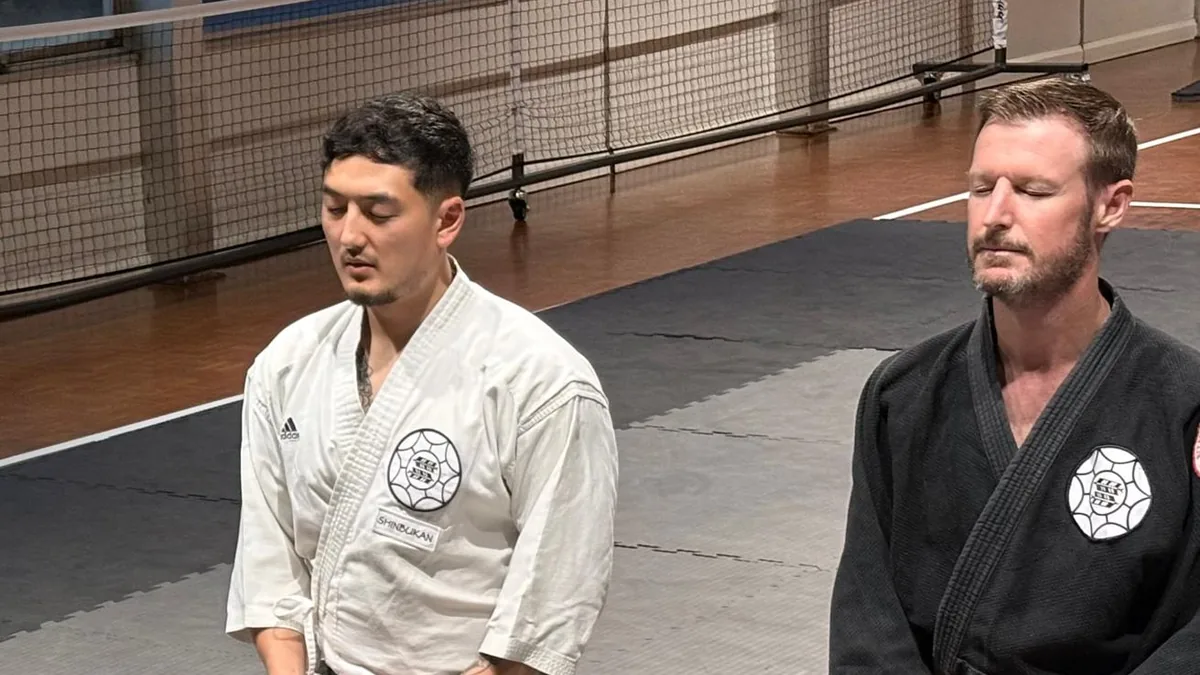
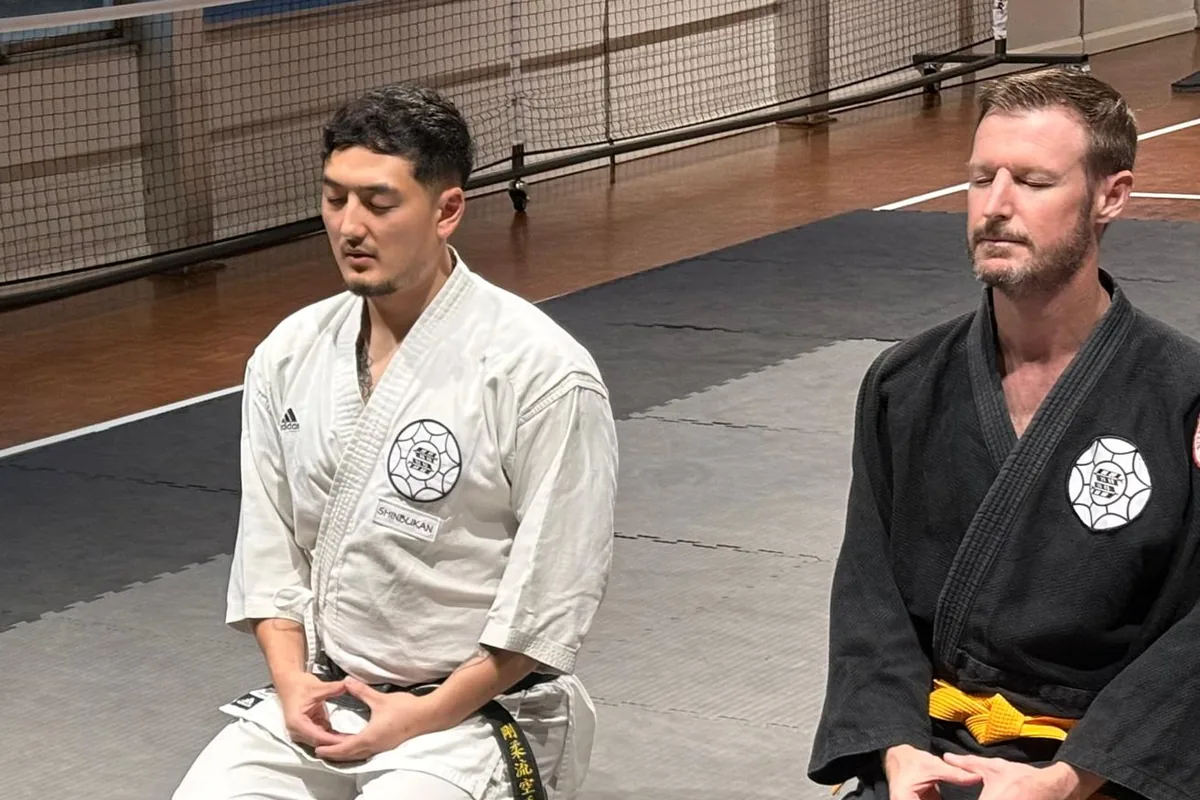
Home: the featured SBS card shows the pair from faces to belts
Dion, 29 Sep: "move the preview image a lot higher, so I can see the gi /
black belt". The 21:9 card could not hold both faces and belts, so the cut
is 3:2 from y=140 and a featured film may be `tall`: the card stands at 3:2
on a desk. Phones keep the 4:5 portrait.

diff --git a/src/data/morel.ts b/src/data/morel.ts
@@ -211,7 +211,16 @@ export const FILMS_SECTION = local(S.FILMS_SECTION);
    uses sbs-karate-v1. */
 export const FILMS = local(S.FILMS).map((f) =>
   f.image === '/img/sbs-karate-v1.webp'
-    ? { ...f, image: '/img/seiza-pair-v1.webp', /* phones: the 4:5 cut on a taller card, so the title never sits on a face */ imageMobile: '/img/seiza-pair-portrait-v1.webp' }
+    ? {
+        ...f,
+        /* Dion, 29 Sep: "move the preview image a lot higher, so I can see the gi /
+           black belt" — the cut is 3:2 from y=140 now (faces to belt) and the
+           card stands at 3:2 on a desk to hold it (`tall`). */
+        image: '/img/seiza-pair-v1.webp',
+        tall: true,
+        /* phones: the 4:5 cut on a taller card, so the title never sits on a face */
+        imageMobile: '/img/seiza-pair-portrait-v1.webp',
+      }
     : f
 );
 const FAMILY_BASE = local(S.FAMILY);

diff --git a/src/styles/morel.css b/src/styles/morel.css
@@ -673,6 +673,7 @@
 }
 .mo .film:hover { transform: translateY(-4px); box-shadow: 0 24px 60px rgba(20, 16, 13, 0.25); }
 .mo .film--feature { aspect-ratio: 21 / 9; min-height: 380px; margin-bottom: 20px; background-position: center top; } /* a two-shot of people: keep the faces, lose the mats */
+.mo .film--feature.film--tall { aspect-ratio: 3 / 2; } /* a portrait pair cut to 3:2: faces at the top, belts at the foot, nothing lost */
 .mo .film__inner {
   position: absolute;
   inset: auto 0 0 0;
